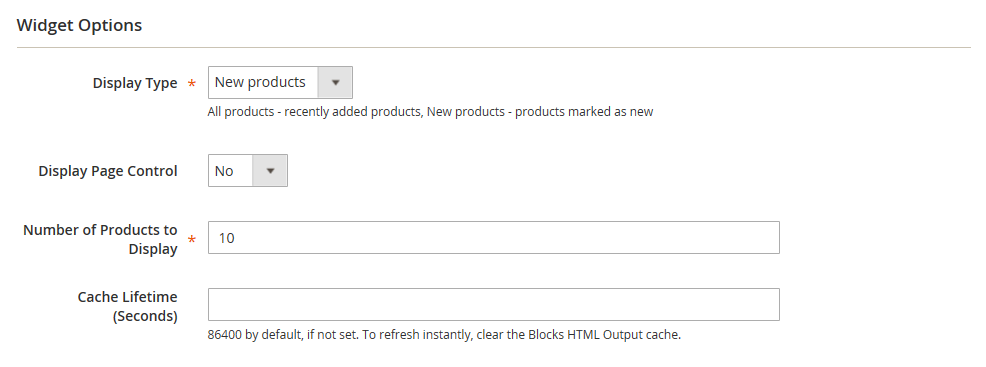
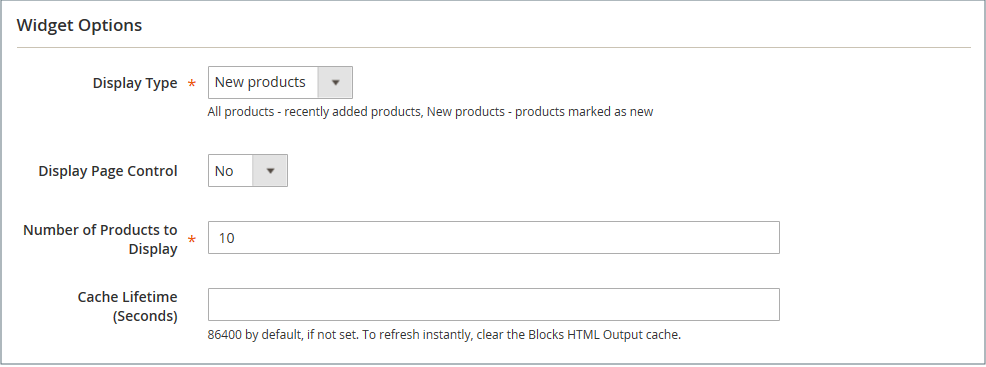
Revise imgs widget-new-products-list.md widget-static-block.md

Changed region(s): [[0.0, 0.9891, 1.0, 1.0], [0.9736, 0.0, 1.0, 0.03], [0.0, 0.0, 0.0304, 0.03]]

diff --git a/help/content-design/widget-new-products-list.md b/help/content-design/widget-new-products-list.md
@@ -7,7 +7,7 @@ exl-id: bdff3655-cd14-4a19-a51f-4cabeb274d2a
 
 The list of new products is an example of dynamic content, and consists of live data that is pulled from your product catalog. By default, the _New Products_ list includes the first eight of the most recently added products. However, it can also be configured to include only products within a specified date range.
 
-![New products list on the storefront home page](./assets/storefront-home-page-new-products.png)<!-- zoom -->
+![New products list on the storefront home page](./assets/storefront-home-page-new-products.png){width="600" zoomable="yes"}
 
 ## Step 1: Set each product as new
 
@@ -25,7 +25,7 @@ Setting a product as new adds the product to the _New products_ list. You can ch
 
 1. For **[!UICONTROL Set Product as New]**, toggle the option to set the product as a new product or not.
 
-   ![Setting the product as new](./assets/product-set-as-new.png)<!-- zoom -->
+   ![Setting the product as new](./assets/product-set-as-new.png){width="400" zoomable="yes"}
 
 1. When complete, click **[!UICONTROL Save]**.
 
@@ -47,7 +47,7 @@ The code that determines the content of the New Products list and its placement 
 
 1. Click **[!UICONTROL Continue]**.
 
-   ![New product list widget settings](./assets/widget-settings-new-products-list.png)<!-- zoom -->
+   ![New product list widget settings](./assets/widget-settings.png){width="600" zoomable="yes"}
 
 1. In the _[!UICONTROL Storefront Properties]_ section, do the following:
 
@@ -59,7 +59,7 @@ The code that determines the content of the New Products list and its placement 
 
    - (Optional) For **[!UICONTROL Sort Order]**, enter a number to determine the order this item appears with others in the same part of the page. (`0` = first, `1` = second, `3` = third, and so on.)
 
-   ![Widget storefront properties](./assets/widget-storefront-properties-new-products-list.png)<!-- zoom -->
+   ![Layout updates](./assets/widget-layout-update-home-page.png){width="600" zoomable="yes"}
 
 ## Step 3: Choose the location
 
@@ -76,7 +76,7 @@ The code that determines the content of the New Products list and its placement 
    - `New Product List Template`
    - `New Products Grid Template`
 
-   ![Layout updates](./assets/widget-layout-update-new-products-list.png)<!-- zoom -->
+   ![Layout updates](./assets/widget-layout-update-new-products-list.png){width="600" zoomable="yes"}
 
 1. Click **[!UICONTROL Save and Continue Edit]**.
 
@@ -103,7 +103,7 @@ The code that determines the content of the New Products list and its placement 
 
    By default, the cache is set to 86,400 seconds (24 hours).
 
-   ![Widget Options](./assets/widget-options-new-product-list.png)<!-- zoom -->
+   ![Widget Options](./assets/widget-options-new-product-list.png){width="600" zoomable="yes"}
 
 1. When complete, click **[!UICONTROL Save]**.
 

diff --git a/help/content-design/widget-static-block.md b/help/content-design/widget-static-block.md
@@ -7,7 +7,7 @@ exl-id: 174deef2-33c4-4f1a-8ca8-4969be209bc7
 
 The _CMS Static Block_ [widget](widgets.md) gives you the ability to place an existing [content block](blocks.md) nearly anywhere in your store.
 
-![Widgets list](./assets/widgets.png)<!-- zoom -->
+![Widgets](./assets/widgets.png){width="700" zoomable="yes"}
 
 ## Step 1: Choose the widget type
 
@@ -19,7 +19,7 @@ The _CMS Static Block_ [widget](widgets.md) gives you the ability to place an ex
 
 1. Verify that **[!UICONTROL Design Theme]** is set to the current theme and click **[!UICONTROL Continue]**.
 
-   ![Widget settings](./assets/widget-settings.png)<!-- zoom -->
+   ![Widget settings](./assets/widget-settings.png){width="600" zoomable="yes"}
 
 1. In the _[!UICONTROL Storefront Properties]_ section, do the following:
 
@@ -33,7 +33,7 @@ The _CMS Static Block_ [widget](widgets.md) gives you the ability to place an ex
 
    - (Optional) For **[!UICONTROL Sort Order]**, enter a number to determine the order this item appears with others in the same part of the page. (`0` = first, `1` = second, `3` = third, and so on.)
 
-   ![Widget storefront properties](./assets/widget-storefront-properties.png)<!-- zoom -->
+   ![Storefront properties](./assets/widget-storefront-properties.png){width="600" zoomable="yes"}
 
 ## Step 2: Complete the widget layout updates
 
@@ -49,7 +49,7 @@ The _CMS Static Block_ [widget](widgets.md) gives you the ability to place an ex
 
    - Accept the default setting for **[!UICONTROL Template]**, which is set to `CMS Static Block Default Template`.
 
-   ![Widget layout updates](./assets/widget-layout-update-home-page.png)<!-- zoom -->
+   ![Layout updates](./assets/widget-layout-update-home-page.png){width="600" zoomable="yes"}
 
 ### Layout updates options
 
